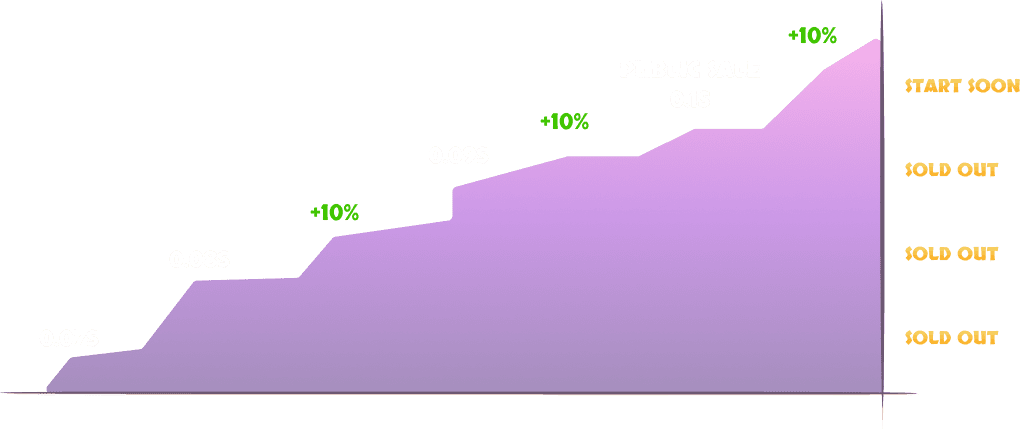
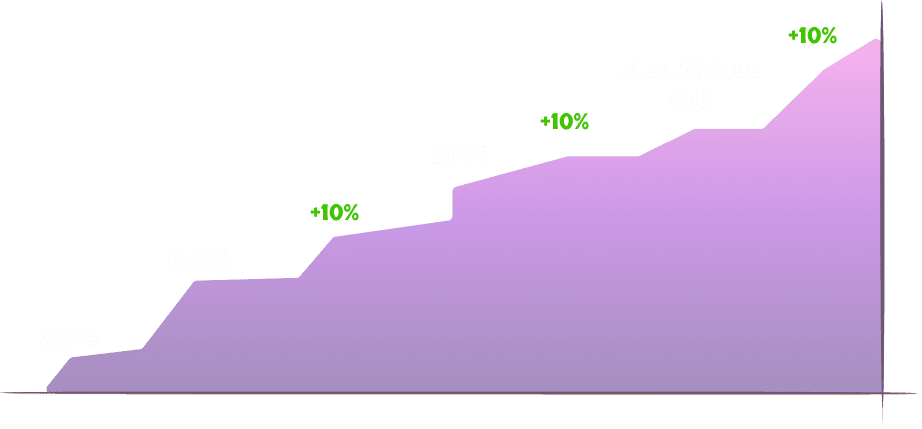
chart title change

diff --git a/src/components/presale/chart.jsx b/src/components/presale/chart.jsx
@@ -11,8 +11,16 @@ export default function Chart() {
                     <div className="font-oi text-[#FF9B00] text-[30px] text-gradient-shadow-stroke-middle text-center">{t("LISTING PRICE")}</div>
                     <div className="text-2xl my-4"><span className="text-[#00ce2d]">0.11$</span> | {t("25/MARCH/2024")}</div>
                 </div>
-                <LazyLoadImage effect="black-and-white" draggable="false" src={`assets/images/chart1.png`} alt="" className="hidden sm:block w-[35rem] md:w-[45rem] lg:w-[52rem]" />
-                <LazyLoadImage effect="black-and-white" draggable="false" src={`assets/images/chart2.png`} alt="" className="block sm:hidden w-[23rem]" />
+                <div className="flex flex-row-reverse sm:flex-row">
+                    <LazyLoadImage effect="black-and-white" draggable="false" src={`assets/images/chart1.png`} alt="" className="hidden sm:block w-[35rem] md:w-[45rem] lg:w-[50rem]" />
+                    <LazyLoadImage effect="black-and-white" draggable="false" src={`assets/images/chart2.png`} alt="" className="block sm:hidden w-[20rem]" />
+                    <div className="flex flex-col items-start justify-evenly font-bold text-gradient-shadow-stroke-middle text-[15px] md:text-[14px] lg:text-[16px]" style={{filter: "none", WebkitTextStroke: "unset"}}>
+                        <div className="">{t("LAUNCHED")}</div>
+                        <div className="">{t("SOLD OUT")}</div>
+                        <div className="">{t("SOLD OUT")}</div>
+                        <div className="">{t("SOLD OUT")}</div>
+                    </div>
+                </div>
             </div>
             <img effect="black-and-white" draggable="false" src={`assets/images/characters/character-3.png`} alt="" className="absolute scale-x-[-1] sm:scale-100 bottom-[-15rem] sm:-bottom-20 left-[33rem] sm:left-[-23rem] w-[25rem] sm:w-[28rem]" />
         </>
